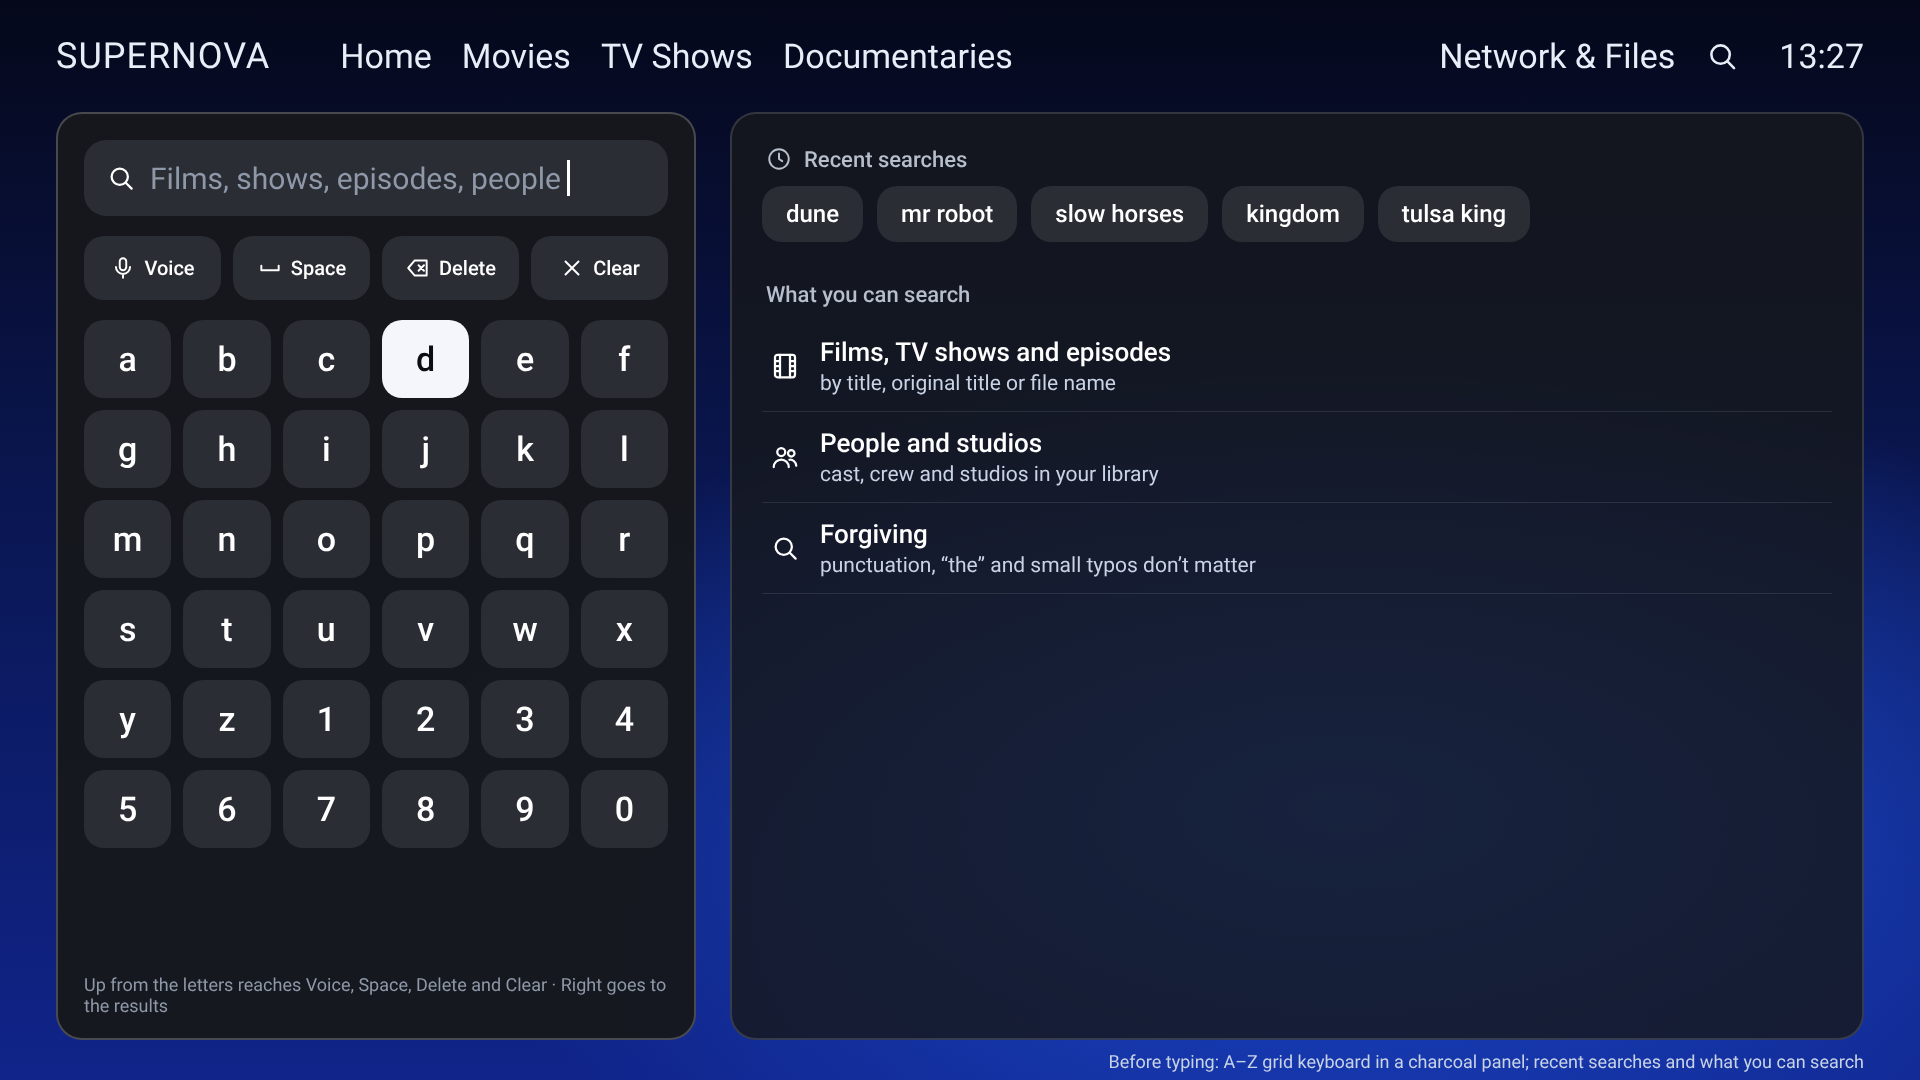
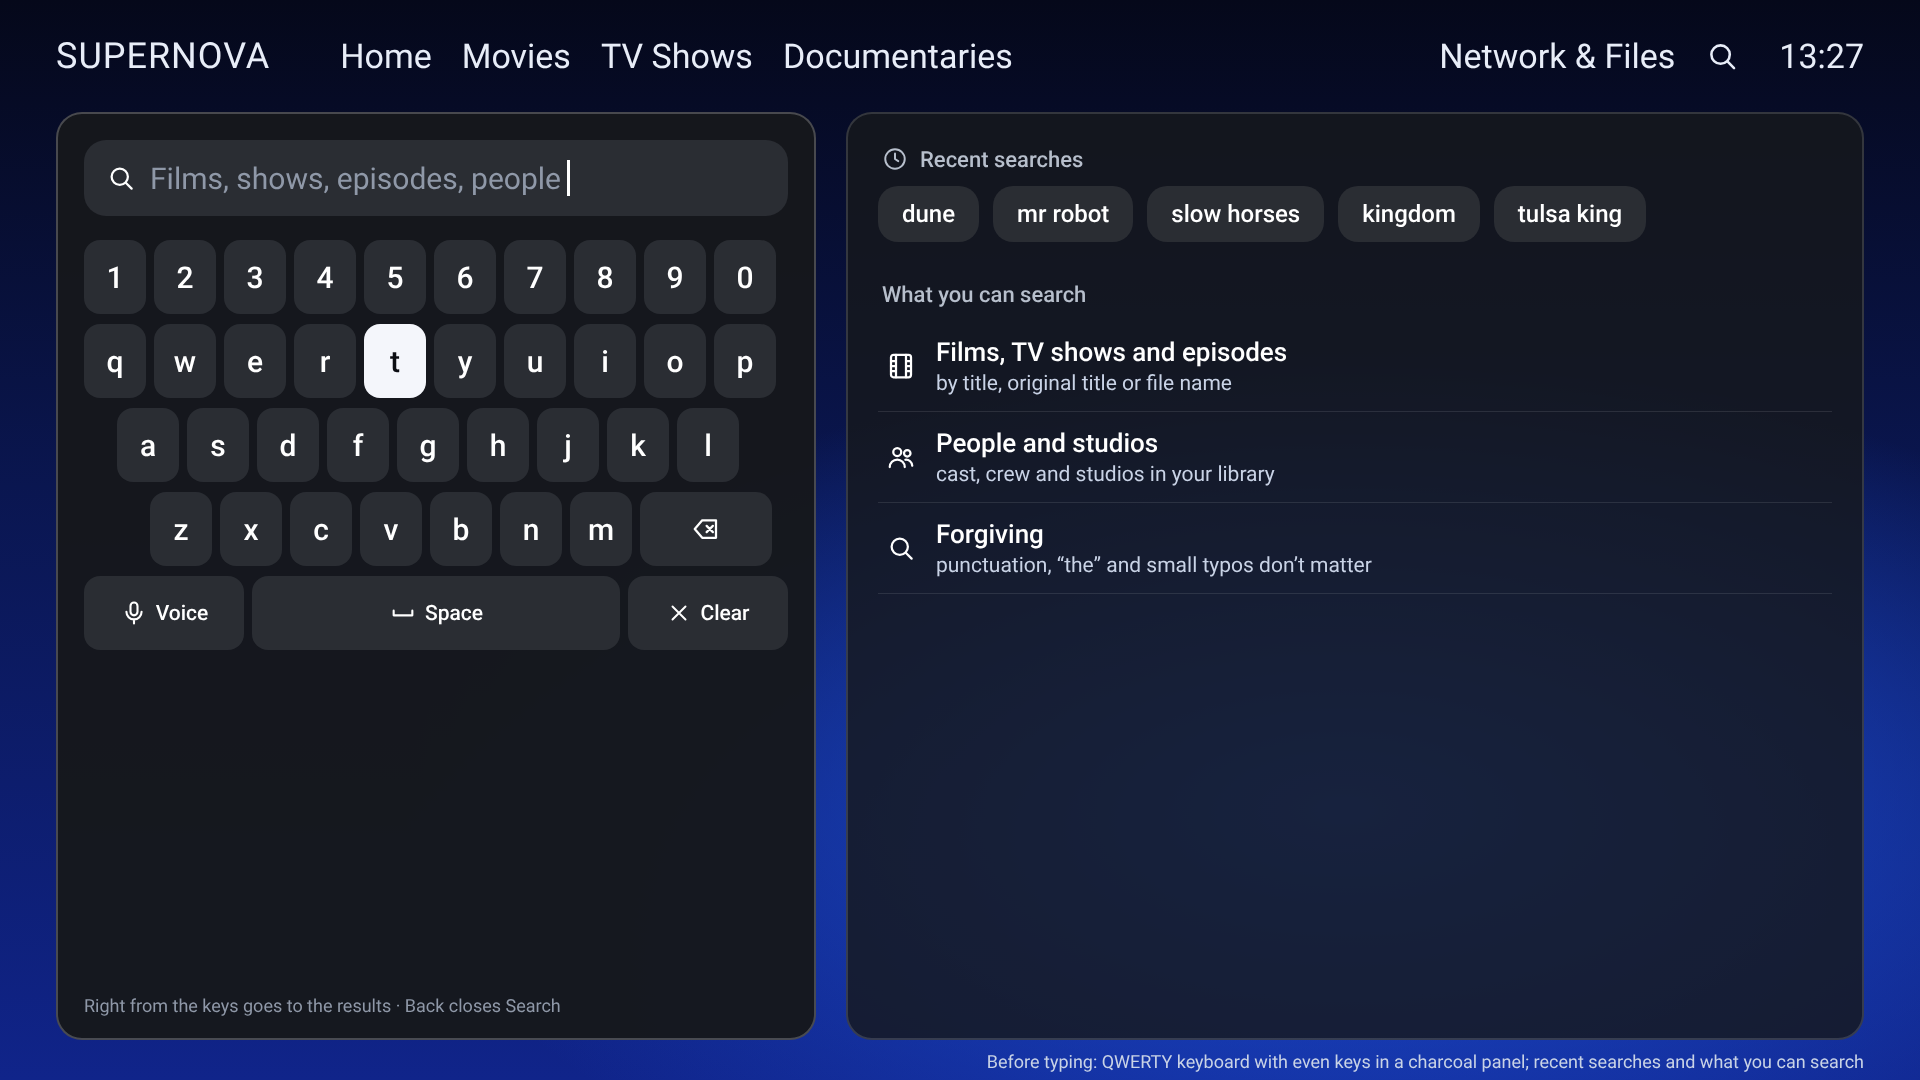
Search mock-ups: QWERTY keyboard
Claude-Session: https://claude.ai/code/session_01FtDZqamY6pdaUKwc7fqgiA

diff --git a/docs/design/proposals/search/render.js b/docs/design/proposals/search/render.js
@@ -9,11 +9,13 @@ const P = { search: '<circle cx="11" cy="11" r="6.5"/><path d="M16 16l4.5 4.5"/>
   tv: '<rect x="3" y="5" width="18" height="12" rx="2"/><path d="M8 21h8"/>', people: '<circle cx="9" cy="8" r="3.2"/><path d="M3 20a6 6 0 0 1 12 0"/><circle cx="17" cy="9" r="2.6"/><path d="M15.5 14.2A5 5 0 0 1 21 19"/>' };
 const ic = (k, s = 28) => `<svg width="${s}" height="${s}" viewBox="0 0 24 24" fill="none" stroke="currentColor" stroke-width="1.8" stroke-linecap="round" stroke-linejoin="round">${P[k]}</svg>`;
 const nav = `<div class="nav"><span class="brand">SUPERNOVA</span><span>Home</span><span>Movies</span><span>TV Shows</span><span>Documentaries</span><span class="sp"></span><span>Network &amp; Files</span><span class="on">${ic('search', 34)}</span><span class="clock">13:27</span></div>`;
-const letters = 'abcdefghijklmnopqrstuvwxyz1234567890'.split('');
+const rows = ['1234567890', 'qwertyuiop', 'asdfghjkl', 'zxcvbnm'];
+const key = (l, focus, cls = '') => `<div class="key${cls}${focus === l ? ' f' : ''}">${l}</div>`;
 const kb = (text, focus) => `<div class="kpanel"><div class="field">${ic('search', 30)}<span class="${text ? 'typed' : 'ph'}">${text || 'Films, shows, episodes, people'}</span><i class="caret"></i></div>
-  <div class="tools">${[['mic', 'Voice'], ['space', 'Space'], ['del', 'Delete'], ['clear', 'Clear']].map(([k, t]) => `<div class="tk${focus === t ? ' f' : ''}">${ic(k, 26)}<span>${t}</span></div>`).join('')}</div>
-  <div class="grid">${letters.map(l => `<div class="key${focus === l ? ' f' : ''}">${l}</div>`).join('')}</div>
-  <div class="khint">Up from the letters reaches Voice, Space, Delete and Clear · Right goes to the results</div></div>`;
+  <div class="kb">
+  ${rows.map((r, i) => `<div class="krow o${i}">${r.split('').map(l => key(l, focus)).join('')}${i === 3 ? `<div class="key wide${focus === 'Delete' ? ' f' : ''}">${ic('del', 30)}</div>` : ''}</div>`).join('')}
+  <div class="krow"><div class="key mid${focus === 'Voice' ? ' f' : ''}">${ic('mic', 28)}<span>Voice</span></div><div class="key space${focus === 'Space' ? ' f' : ''}">${ic('space', 28)}<span>Space</span></div><div class="key mid${focus === 'Clear' ? ' f' : ''}">${ic('clear', 26)}<span>Clear</span></div></div>
+  </div><div class="khint">Right from the keys goes to the results · Back closes Search</div></div>`;
 const empty = `<div class="right"><div class="sec">${ic('clock', 26)}Recent searches</div>
   <div class="chips">${['dune', 'mr robot', 'slow horses', 'kingdom', 'tulsa king'].map(c => `<span class="chip">${c}</span>`).join('')}</div>
   <div class="sec gap">What you can search</div>
@@ -29,20 +31,20 @@ const results = `<div class="right"><div class="count">5 results for “dune” 
   <div class="sec">${ic('people', 26)}People · 2</div>
   ${res('#6b5a4a', 'Denis Villeneuve', '', 'Director · 2 titles in your library', 'Matched: directed Dune, Dune: Part Two', false, true)}</div>`;
 const shots = [
-  ['01-empty.png', kb('', 'd') + empty, 'Before typing: A–Z grid keyboard in a charcoal panel; recent searches and what you can search'],
+  ['01-empty.png', kb('', 't') + empty, 'Before typing: QWERTY keyboard with even keys in a charcoal panel; recent searches and what you can search'],
   ['02-results.png', kb('dune', '') + results, 'Typing: results grouped (Films · Episodes · People), two clean lines each, and why it matched when it isn’t the title'],
 ];
 const css = `${font(400)}${font(500)}${font(700)}*{box-sizing:border-box;margin:0}
 body{width:1920px;height:1080px;overflow:hidden;font-family:R;color:#fff;position:relative;background:radial-gradient(ellipse 70% 60% at 70% 75%,#1d4fd8 0%,rgba(29,79,216,0) 70%),linear-gradient(180deg,#05081a 0%,#0a1650 45%,#10248a 100%)}
 .nav{position:absolute;left:56px;right:56px;top:28px;height:56px;display:flex;align-items:center;gap:30px;font-size:34px;color:#e8edf8}.nav .brand{font-size:36px;margin-right:40px;letter-spacing:1px}.nav .sp{flex:1}.nav .on{display:flex}.nav .clock{margin-left:10px}
-.kpanel{position:absolute;left:56px;top:112px;width:640px;bottom:40px;border-radius:26px;background:rgba(22,24,28,.97);border:2px solid rgba(255,255,255,.22);padding:26px}
+.kpanel{position:absolute;left:56px;top:112px;width:760px;bottom:40px;border-radius:26px;background:rgba(22,24,28,.97);border:2px solid rgba(255,255,255,.22);padding:26px}
 .field{height:76px;border-radius:22px;background:#2a2d33;display:flex;align-items:center;gap:14px;padding:0 22px;font-size:30px}.ph{color:#8f98a8}.typed{font-weight:500}.caret{width:3px;height:36px;background:#fff;margin-left:-8px}
-.tools{display:grid;grid-template-columns:repeat(4,1fr);gap:12px;margin-top:20px}
-.tk{height:64px;border-radius:20px;background:#2a2d33;display:flex;align-items:center;justify-content:center;gap:8px;font-size:20px;font-weight:500}.tk.f{background:#F4F6FB;color:#0B0D12}
-.grid{display:grid;grid-template-columns:repeat(6,1fr);gap:12px;margin-top:20px}
-.key{height:78px;border-radius:20px;background:#2a2d33;display:flex;align-items:center;justify-content:center;font-size:34px;font-weight:500}.key.f{background:#F4F6FB;color:#0B0D12}
+.kb{margin-top:24px;display:flex;flex-direction:column;gap:10px}
+.krow{display:flex;gap:8px}.krow.o2{padding-left:33px}.krow.o3{padding-left:66px}
+.key{width:62px;height:74px;flex:none;border-radius:16px;background:#2a2d33;display:flex;align-items:center;justify-content:center;gap:8px;font-size:30px;font-weight:500}
+.key.f{background:#F4F6FB;color:#0B0D12}.key.wide{width:132px}.key.mid{width:160px;font-size:21px}.key.space{flex:1;width:auto;font-size:21px}
 .khint{position:absolute;left:26px;right:26px;bottom:22px;font-size:18px;color:#8f98a8}
-.right{position:absolute;left:730px;right:56px;top:112px;bottom:40px;border-radius:26px;background:rgba(22,24,28,.82);border:2px solid rgba(255,255,255,.14);padding:26px 30px;overflow:hidden}
+.right{position:absolute;left:846px;right:56px;top:112px;bottom:40px;border-radius:26px;background:rgba(22,24,28,.82);border:2px solid rgba(255,255,255,.14);padding:26px 30px;overflow:hidden}
 .sec{display:flex;align-items:center;gap:12px;font-size:22px;font-weight:500;color:#b7bfcc;margin:6px 4px 14px}.sec.gap{margin-top:40px}
 .chips{display:flex;flex-wrap:wrap;gap:14px}.chip{height:56px;padding:0 24px;border-radius:20px;background:#2a2d33;display:flex;align-items:center;font-size:24px;font-weight:500}
 .tip{display:flex;align-items:center;gap:20px;padding:16px 8px;border-bottom:1px solid rgba(255,255,255,.1)}.tip b{display:block;font-size:26px;font-weight:500}.tip span{display:block;font-size:21px;color:#c9d3e6;margin-top:4px}
@@ -57,10 +59,11 @@ body{width:1920px;height:1080px;overflow:hidden;font-family:R;color:#fff;positio
     await t.setContent(`<html><head><style>${css}</style></head><body>${nav}${body}<div class="label">${label}</div></body></html>`, { waitUntil: 'load' });
     await t.evaluate(() => document.fonts.ready);
     const issues = await t.evaluate(() => { const o = [], r = e => e.getBoundingClientRect();
-      const k = document.querySelector('.kpanel'), g = document.querySelector('.grid'), h = document.querySelector('.khint');
+      const k = document.querySelector('.kpanel'), g = document.querySelector('.kb'), h = document.querySelector('.khint');
       if (r(g).bottom > r(h).top) o.push('grid hits hint'); if (r(g).bottom > r(k).bottom) o.push('grid overflows panel');
       const rp = document.querySelector('.right'); document.querySelectorAll('.right > *').forEach(e => { if (r(e).bottom > r(rp).bottom - 10) o.push('right overflow: ' + e.className); });
       document.querySelectorAll('.t2,.tip span').forEach(e => { if (r(e).right > r(rp).right - 20) o.push('line too long: ' + e.textContent); });
+      document.querySelectorAll('.krow').forEach(w => { if (r(w.lastElementChild).right > r(k).right - 26) o.push('key row overflows panel'); });
       return o; });
     if (issues.length) console.log(f, issues);
     await t.screenshot({ path: path.join(out, f) }); }

diff --git a/docs/0.155/OWNER_NOTES.md b/docs/0.155/OWNER_NOTES.md
@@ -233,9 +233,11 @@ Codex's branch `codex/0155-code-2026-11-04` (DP-01…DP-07, TV-only stages). **N
   prefix title matches first; typo tolerance on titles only; people/studios only on whole words; file paths only
   when nothing else matches; results grouped and capped per group.
 - **Proposed (`docs/design/proposals/search/01`–`02`):** left — a charcoal panel with a large search field, a row of
-  Voice (Shield remote mic), Space, Delete, Clear, and an A–Z / 0–9 grid of large, even keys (six across, easier with
-  a remote than QWERTY). Right — before typing: recent searches and three short "what you can search" lines; while
+  Voice (Shield remote mic), Space, Delete, Clear, and large, even keys (first shown as an A–Z grid; owner chose QWERTY). Right — before typing: recent searches and three short "what you can search" lines; while
   typing: results grouped Films · TV shows · Episodes · People, each two lines (title + year; type · runtime ·
   resolution only when known · genres), and a blue "Matched …" line when the match was not the title. No file names,
   certificates or "unavailable".
-- **Status:** awaiting the owner's approval — then awaiting go-ahead to code.
+- **Owner (4 Nov 2026):** keep a traditional QWERTY layout. Revised `01`–`02`: number row, QWERTY rows with the usual
+  half-key stagger, Delete at the end of the Z row, and a bottom row of Voice · Space · Clear; every letter key the same
+  size; keyboard panel widened to fit.
+- **Status:** awaiting the owner's approval of the revised `01`–`02` — then awaiting go-ahead to code.
